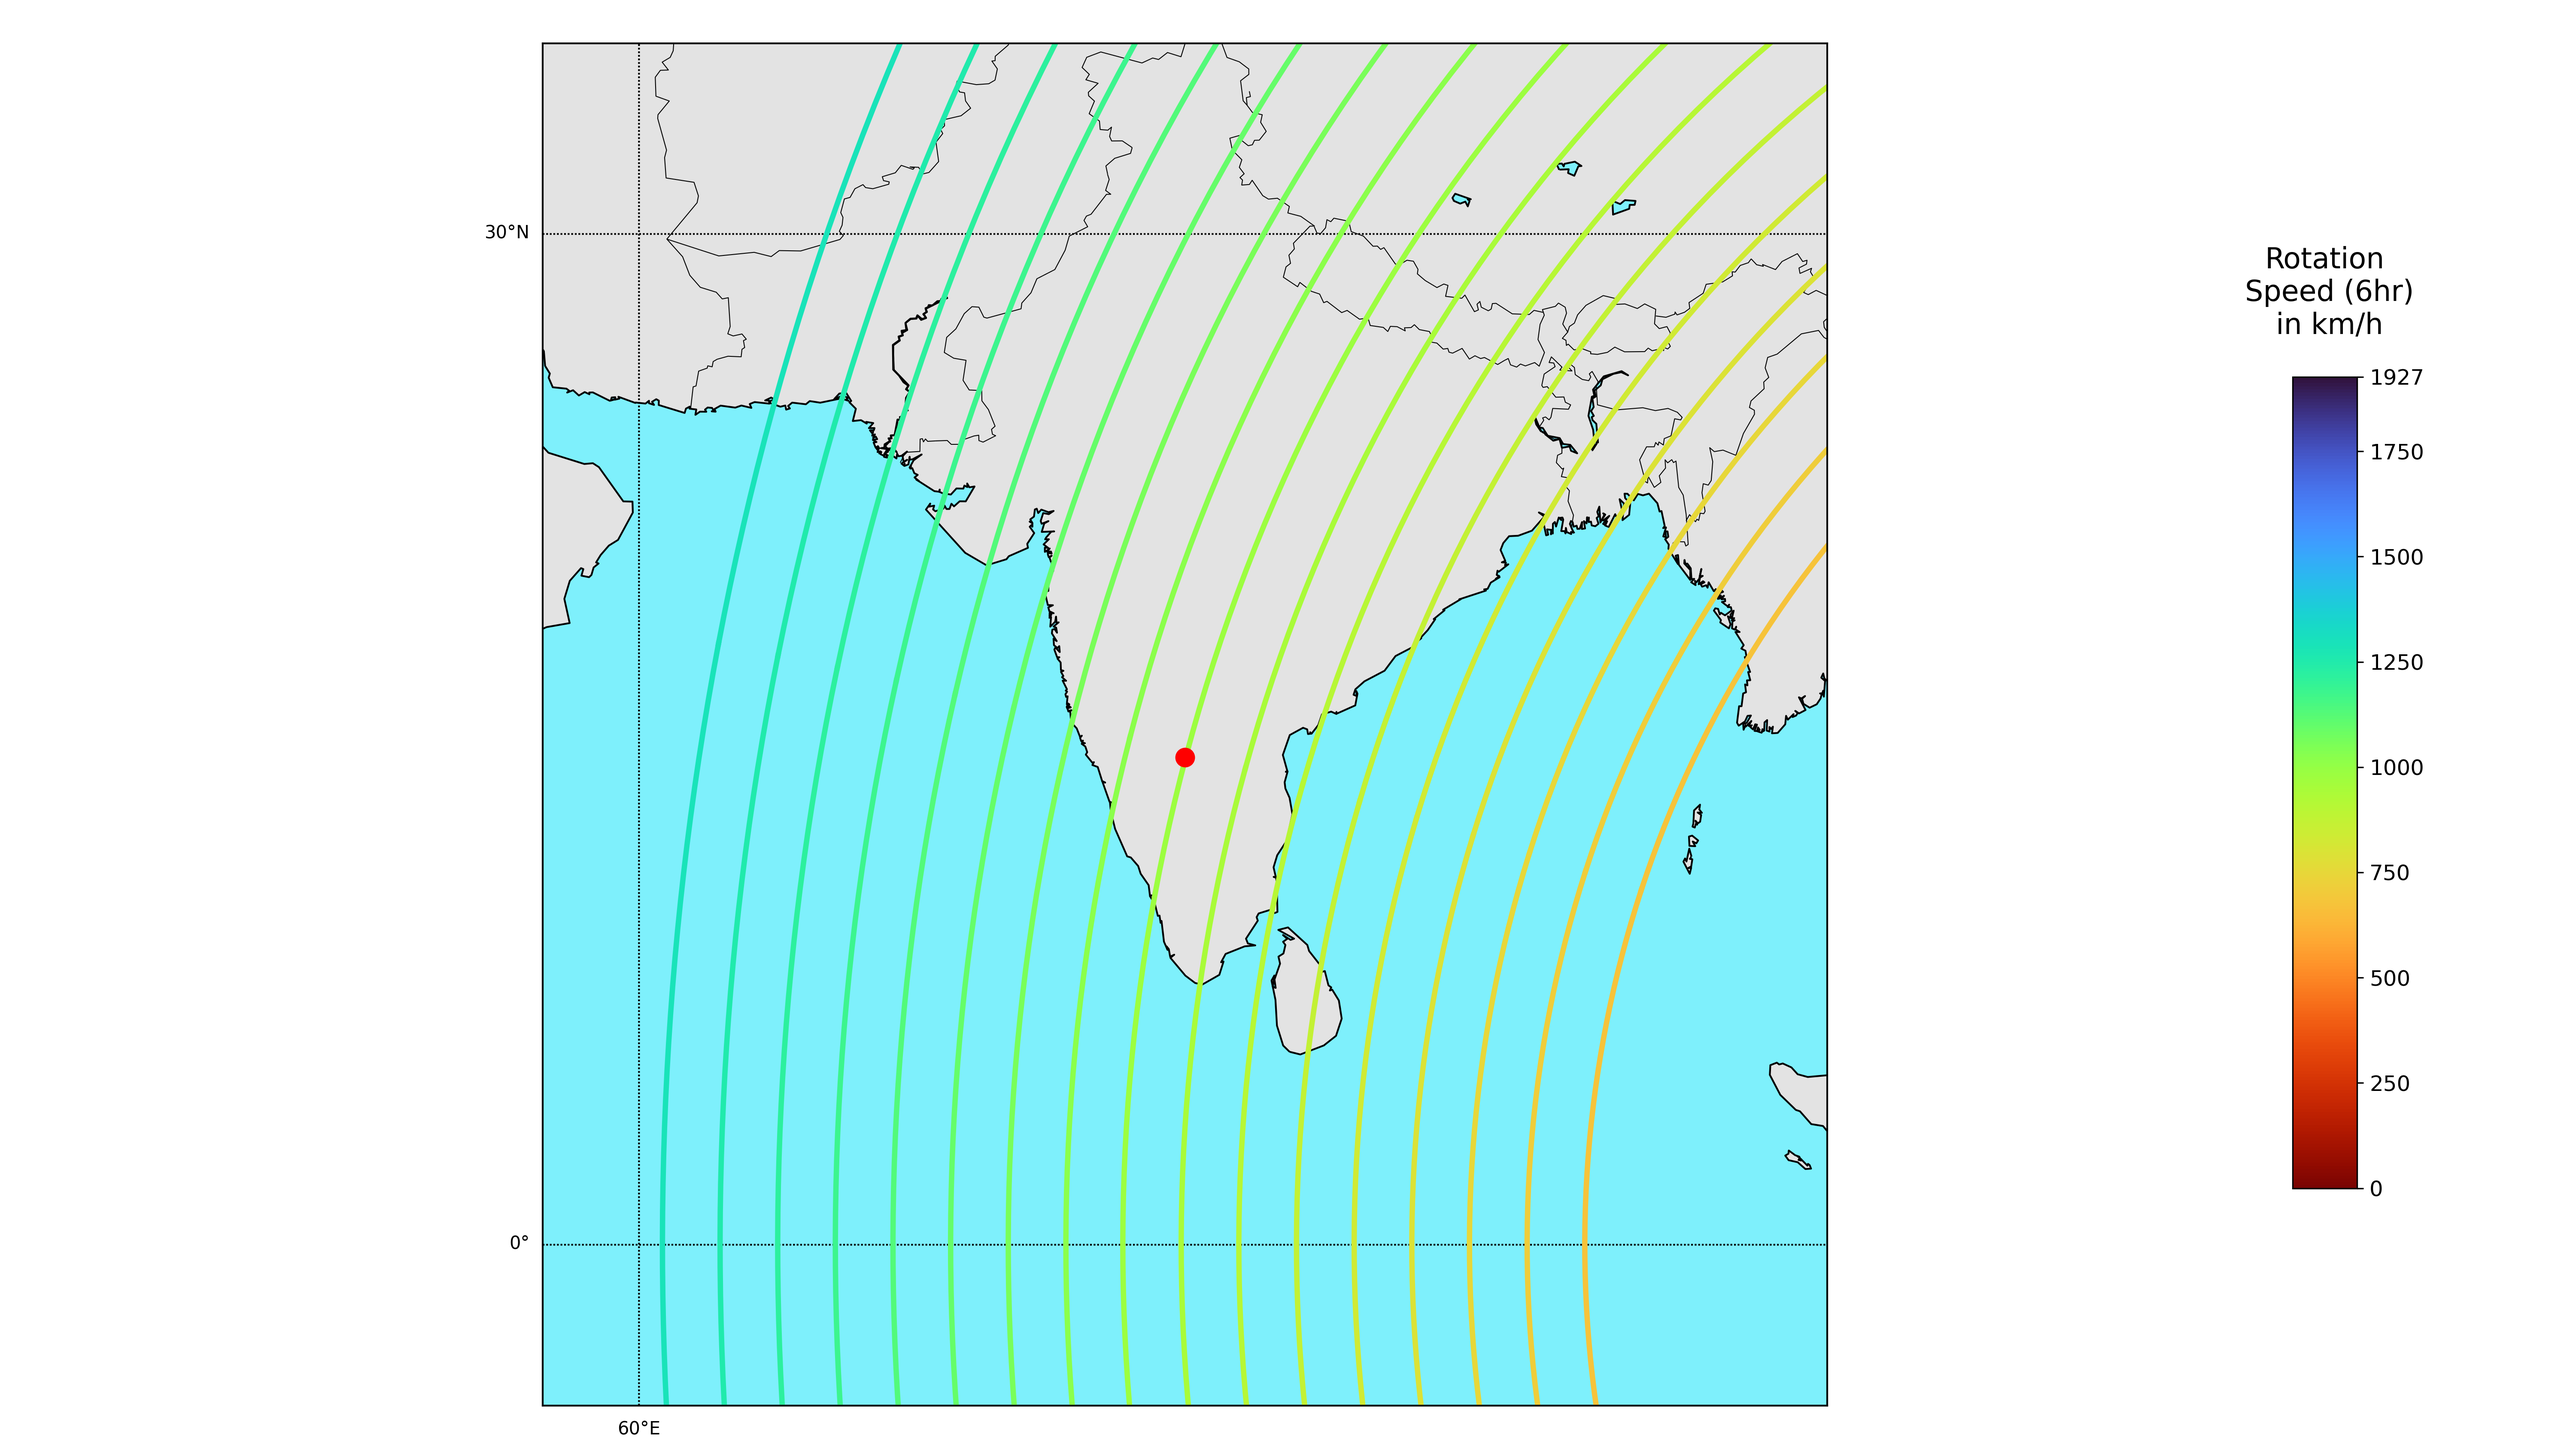
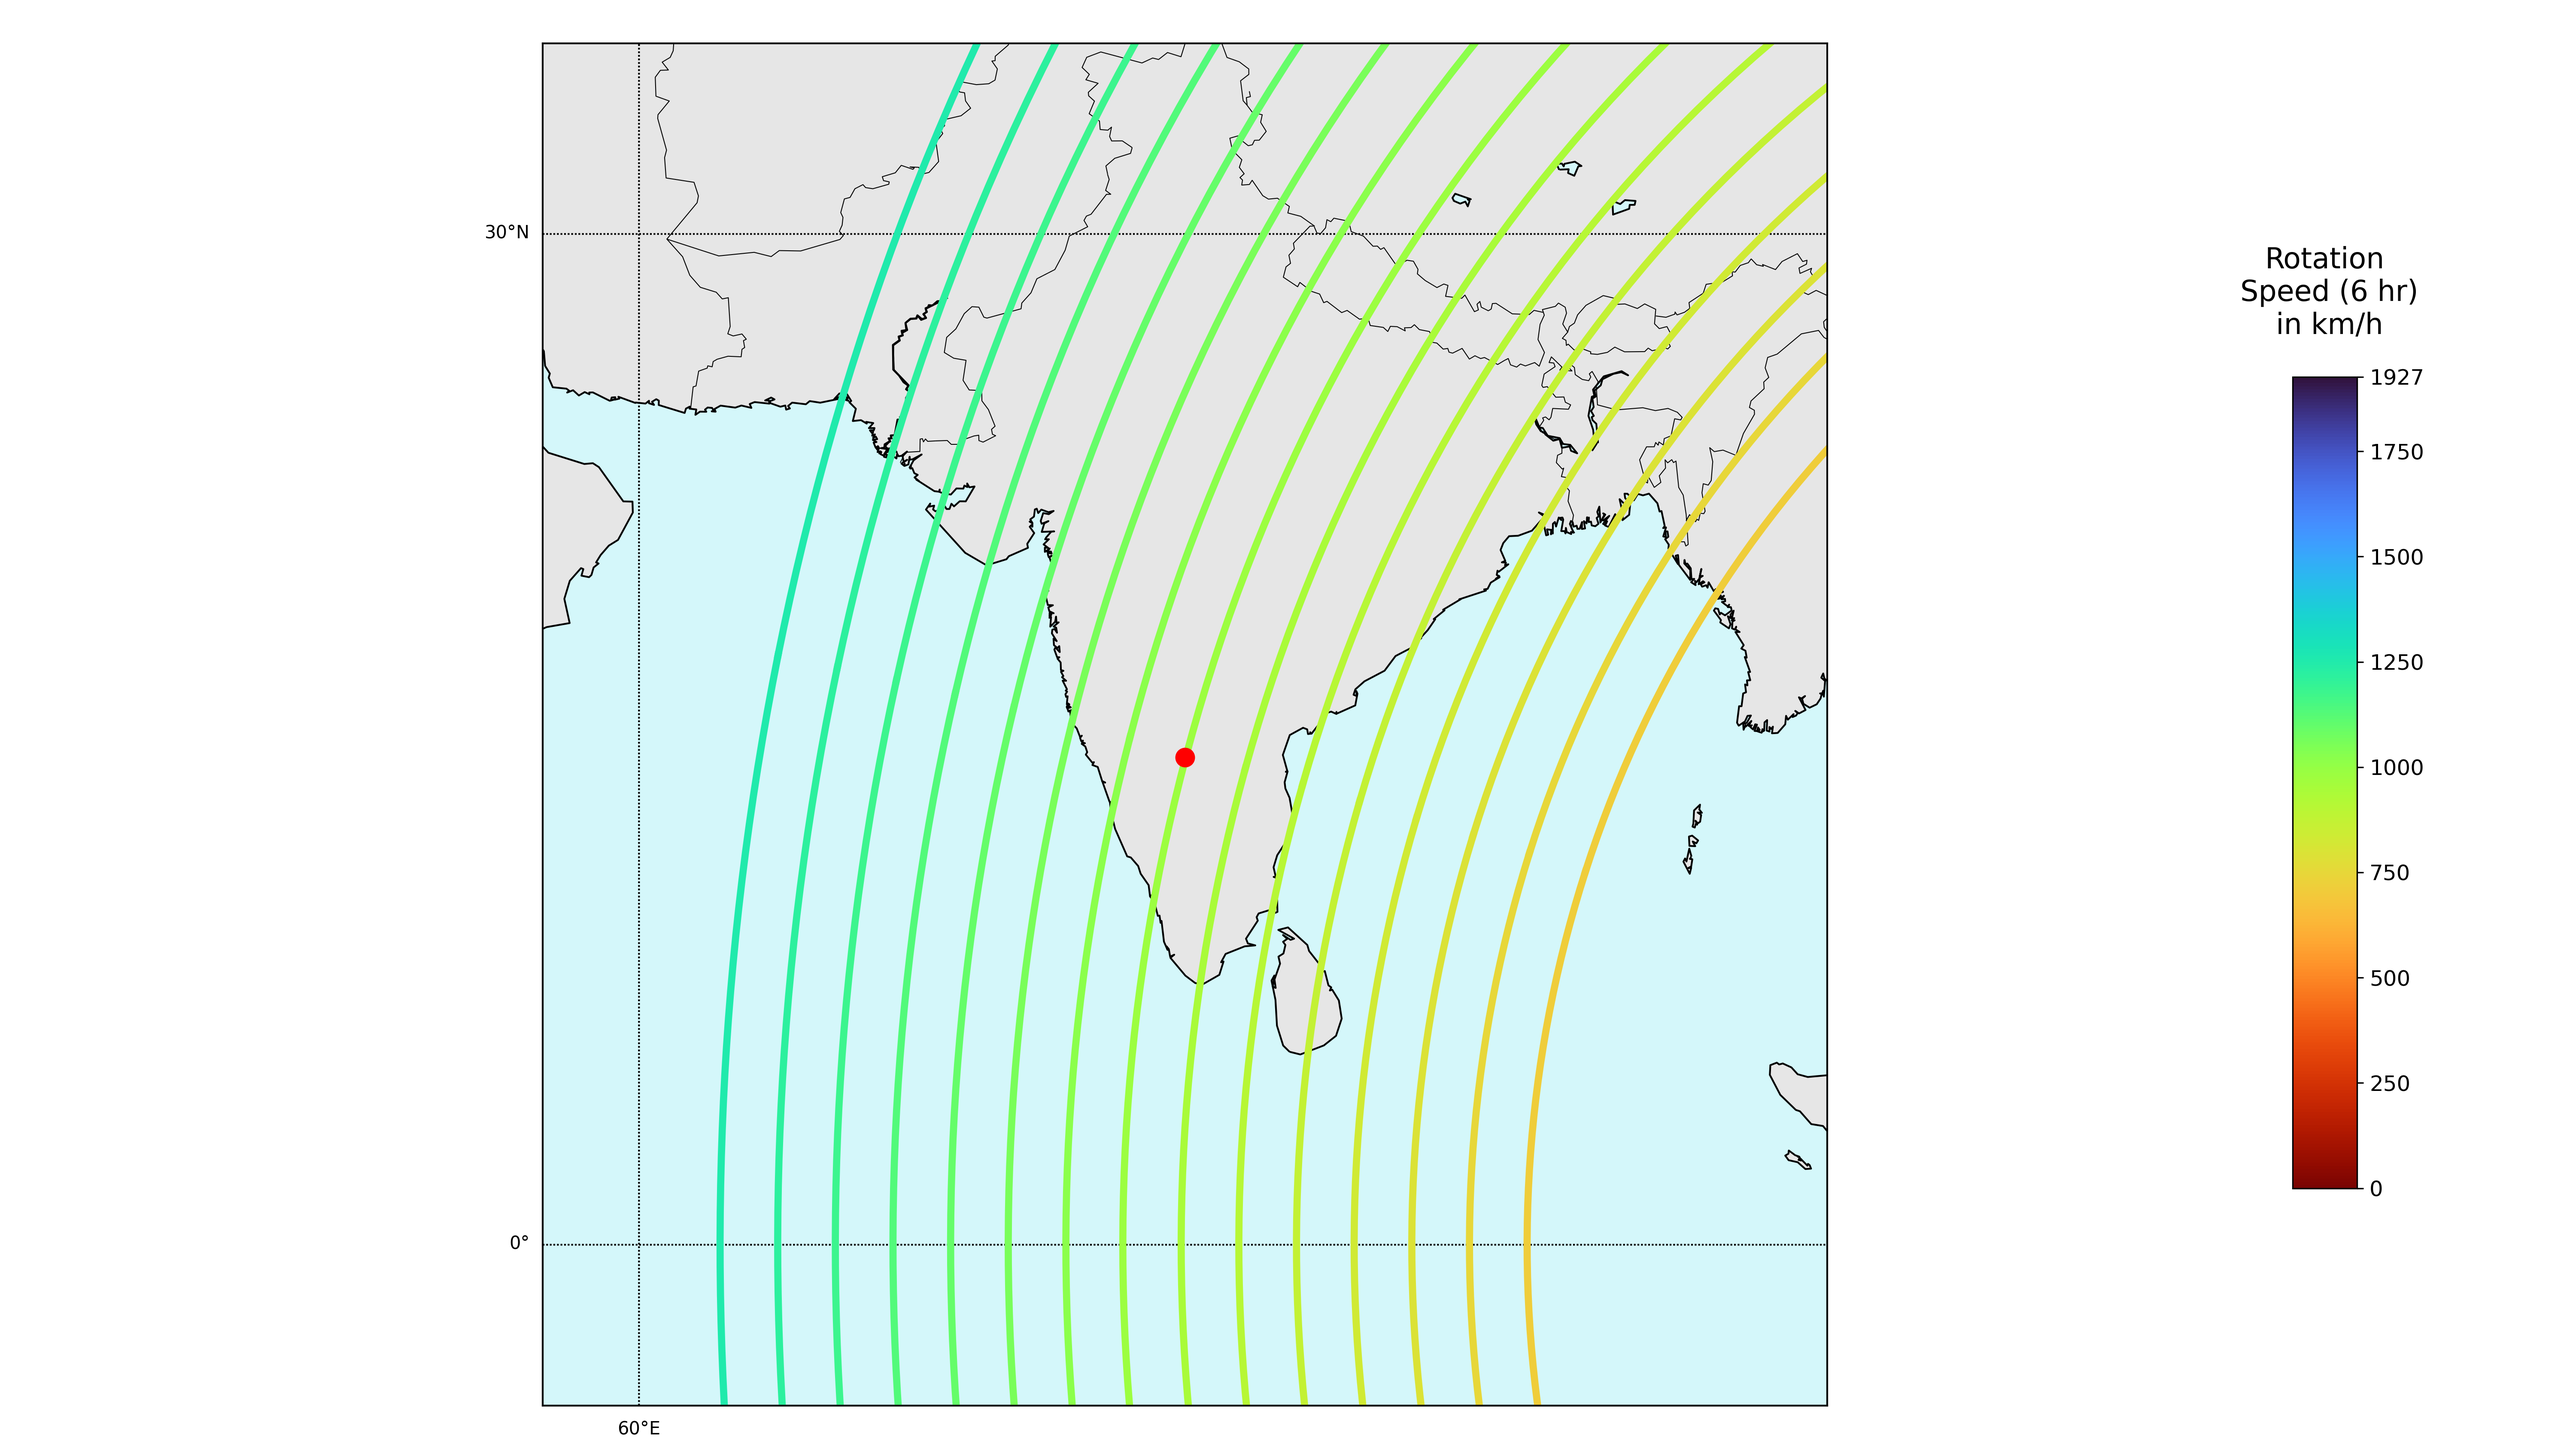
finish up this script

Changed region(s): [[0.187, 0.2489, 0.7168, 0.9956], [0.8727, 0.1867, 0.935, 0.2178]]

diff --git a/5-TOOLS-DATA-DEV/scripts/rotational-path-2d/gen.py b/5-TOOLS-DATA-DEV/scripts/rotational-path-2d/gen.py
@@ -344,10 +344,10 @@ ax = fig.add_axes([0.03, 0.03, 0.86, 0.94])  # Adjust these values as needed
 # ax = plt.subplot(111,aspect = 'equal')
 plt.axis('tight')
 
-plt.subplots_adjust(left=0.03, bottom=0.03, right=0.97, top=0.97, wspace=0, hspace=0)
+plt.subplots_adjust(left=0.03, bottom=0.03, right=0.97, top=0.94, wspace=0, hspace=0)
 
 # Set the title
-# plt.title('ECDO S1 -> S2 Rotation Path and Speed (6 hr rotation)', fontsize=24, pad=16)
+# plt.title('ECDO S1 -> S2 Rotation Path and Speed (6 hr rotation)', fontsize=28, pad=20)
 
 # Set up the Basemap with the 'ortho' projection
 # m = Basemap(projection='ortho', lat_0=0, lon_0=0)
@@ -367,8 +367,8 @@ kml = Basemap(projection='merc', llcrnrlat=llcrnrlat, urcrnrlat=urcrnrlat,
 kml.drawcoastlines()
 kml.drawcountries()
 
-color = "#e3e3e3"
-ocean_color = '#caf8fc'
+color = "#e6e6e6"
+ocean_color = '#d4f7fa'
 
 # Draw map boundary and fill it with a color
 kml.drawmapboundary(fill_color=ocean_color)
@@ -556,7 +556,7 @@ cbar.ax.tick_params(labelsize=12)  # Set font size for the tick labels
 # cbar.set_label('km/h', fontsize=20)
 
 # Add a title and labels to the colorbar (legend)
-cbar.ax.set_title('Rotation\n Speed (6hr)\n in km/h', fontsize=16, pad=24)
+cbar.ax.set_title('Rotation\n Speed (6 hr)\n in km/h', fontsize=16, pad=24)
 cbar.ax.set_yticks([0, 250, 500, 750, 1000, 1250, 1500, 1750, 1927])
 cbar.ax.set_yticklabels(['0', '250', '500', '750','1000', '1250', '1500', '1750', '1927'])
 
